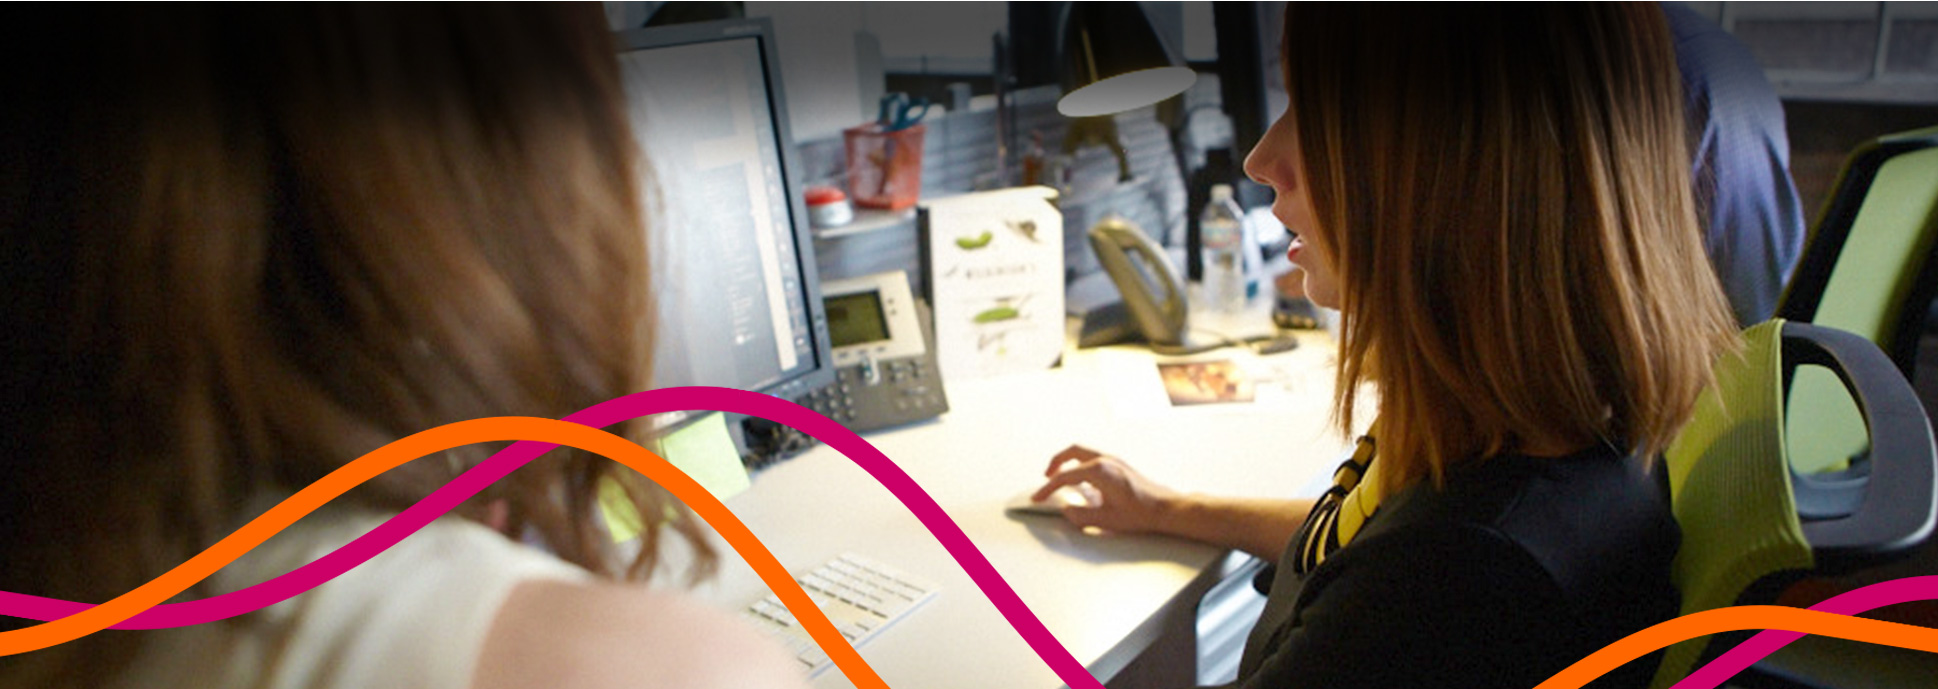
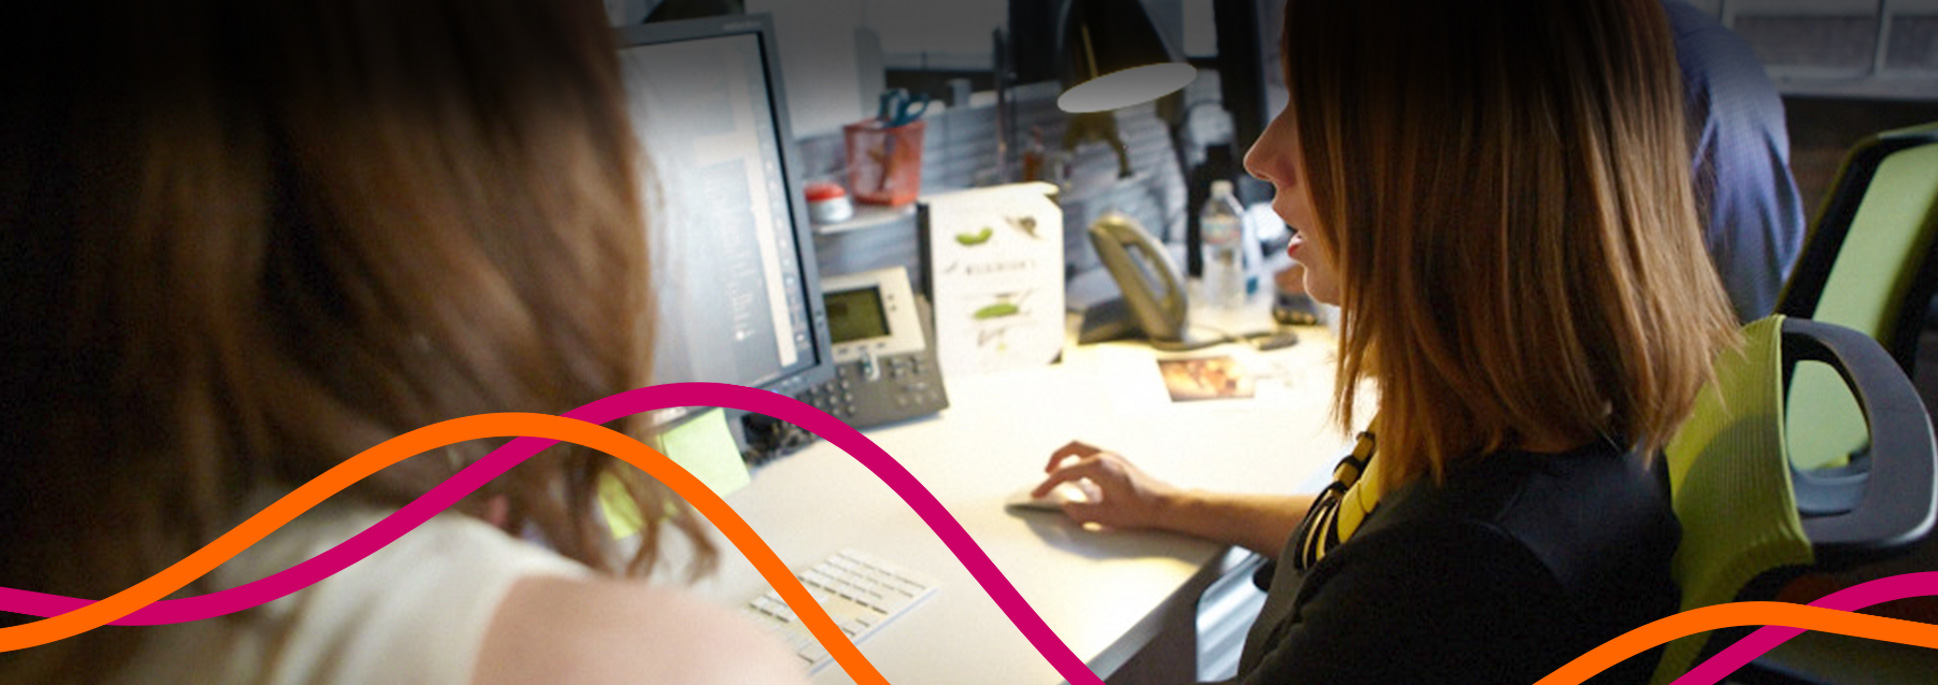
Cleanup up layered footer efforts

diff --git a/css/styles.css b/css/styles.css
@@ -412,7 +412,7 @@ header .wrapper {width: 280px;}
 
 /* -----------[ FOOTER ]----------- */
 
-.footer {background-image:url(../images/assets/orange-wave.png), url(../images/assets/red-wave.png), url(../images/assets/footer.jpg); background-repeat: no-repeat, no-repeat, no-repeat; background-position: -30px 420px, 0px 430px, 0 0; background-size: 100%, 100%, cover; font-size: .9em;}
+.footer {background-image:url(../images/assets/footer-with.jpg); background-repeat: no-repeat; background-size: cover; background-position: center center; font-size: .9em;}
 .footer .orange-wave {background-image: background-size: cover;}
 .footer .always-visible { color: white; height: 687px; max-width:1160px; margin: 0 auto; padding-top: 15px;}
 .footer .always-visible .copyright {float: left; width: 20%;}
@@ -431,13 +431,17 @@ header .wrapper {width: 280px;}
 @media (max-width: 30em) {
     .footer .always-visible {width: 280px; height: 120px; line-height: 1.4em;}
 }
-@-webkit-keyframes animatedWaves {
-    from { background-position: -30px 550px, 0px 550px, 0 0; opacity: 0, 0, 1; }
-    to { background-position: -30px 420px, 0px 430px, 0 0; opacity: .4, .4, 1;}
-}
-@keyframes animatedWaves {
-    from { background-position: -30px 750px, 0px 650px, 0 0; }
-    to { background-position: -30px 620px, 0px 630px, 0 0; }
-}
 
-.footer { -webkit-animation: animatedWaves 2s linear; animation: animatedWaves 2s linear; opacity: .4 2s; }
+
+/*.footer {background-image:url(../images/assets/orange-wave.png), url(../images/assets/red-wave.png), url(../images/assets/footer.jpg); background-repeat: no-repeat, no-repeat, no-repeat; background-position: -30px 420px, 0px 430px, 0 0; background-size: 100%, 100%, cover; font-size: .9em;}*/
+
+/*@-webkit-keyframes animatedWaves {*/
+    /*from { background-position: -30px 550px, 0px 550px, 0 0; opacity: 0, 0, 1; }*/
+    /*to { background-position: -30px 420px, 0px 430px, 0 0; opacity: .4, .4, 1;}*/
+/*}*/
+/*@keyframes animatedWaves {*/
+    /*from { background-position: -30px 750px, 0px 650px, 0 0; }*/
+    /*to { background-position: -30px 620px, 0px 630px, 0 0; }*/
+/*}*/
+
+/*.footer { -webkit-animation: animatedWaves 2s linear; animation: animatedWaves 2s linear; opacity: .4 2s; }*/
